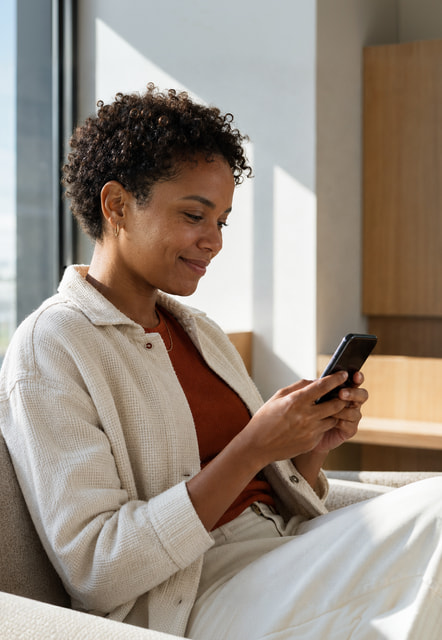
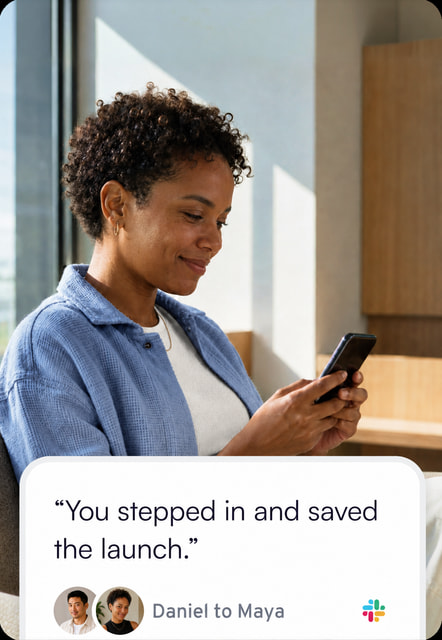
Home "One platform." deck: board's Hosted Experience photo, new Recognition shot
Figma 2451:11490 gained real artwork for the fifth card — it had only a
256x256 placeholder and exported empty — and swapped the Recognition photo
for a different frame. Both are cut to the fill each card node specifies and
checked against Figma's render of the row (MAE 3.0 and 3.2 of 255).

Hosted Experience no longer borrows events.jpg, which was 222x320 and so
under-resolved for its 221px slot at 2x. That file has no remaining users
and is removed.

diff --git a/app/components/EveryWay.tsx b/app/components/EveryWay.tsx
@@ -1,7 +1,7 @@
 "use client";
 
-import eventsImg from "@/public/oneplatform/events.jpg";
 import giftingImg from "@/public/oneplatform/gifting.jpg";
+import hostedImg from "@/public/oneplatform/hosted.jpg";
 import danielImg from "@/public/oneplatform/kudos-daniel.jpg";
 import mayaImg from "@/public/oneplatform/kudos-maya.jpg";
 import recognitionImg from "@/public/oneplatform/recognition.jpg";
@@ -45,7 +45,7 @@ const SEGMENTS: Segment[] = [
       { label: "Swag", image: swagImg },
       { label: "Gifting", image: giftingImg },
       { label: "Snack Boxes", image: snacksImg },
-      { label: "Hosted Experience", image: eventsImg },
+      { label: "Hosted Experience", image: hostedImg },
     ],
   },
   {
